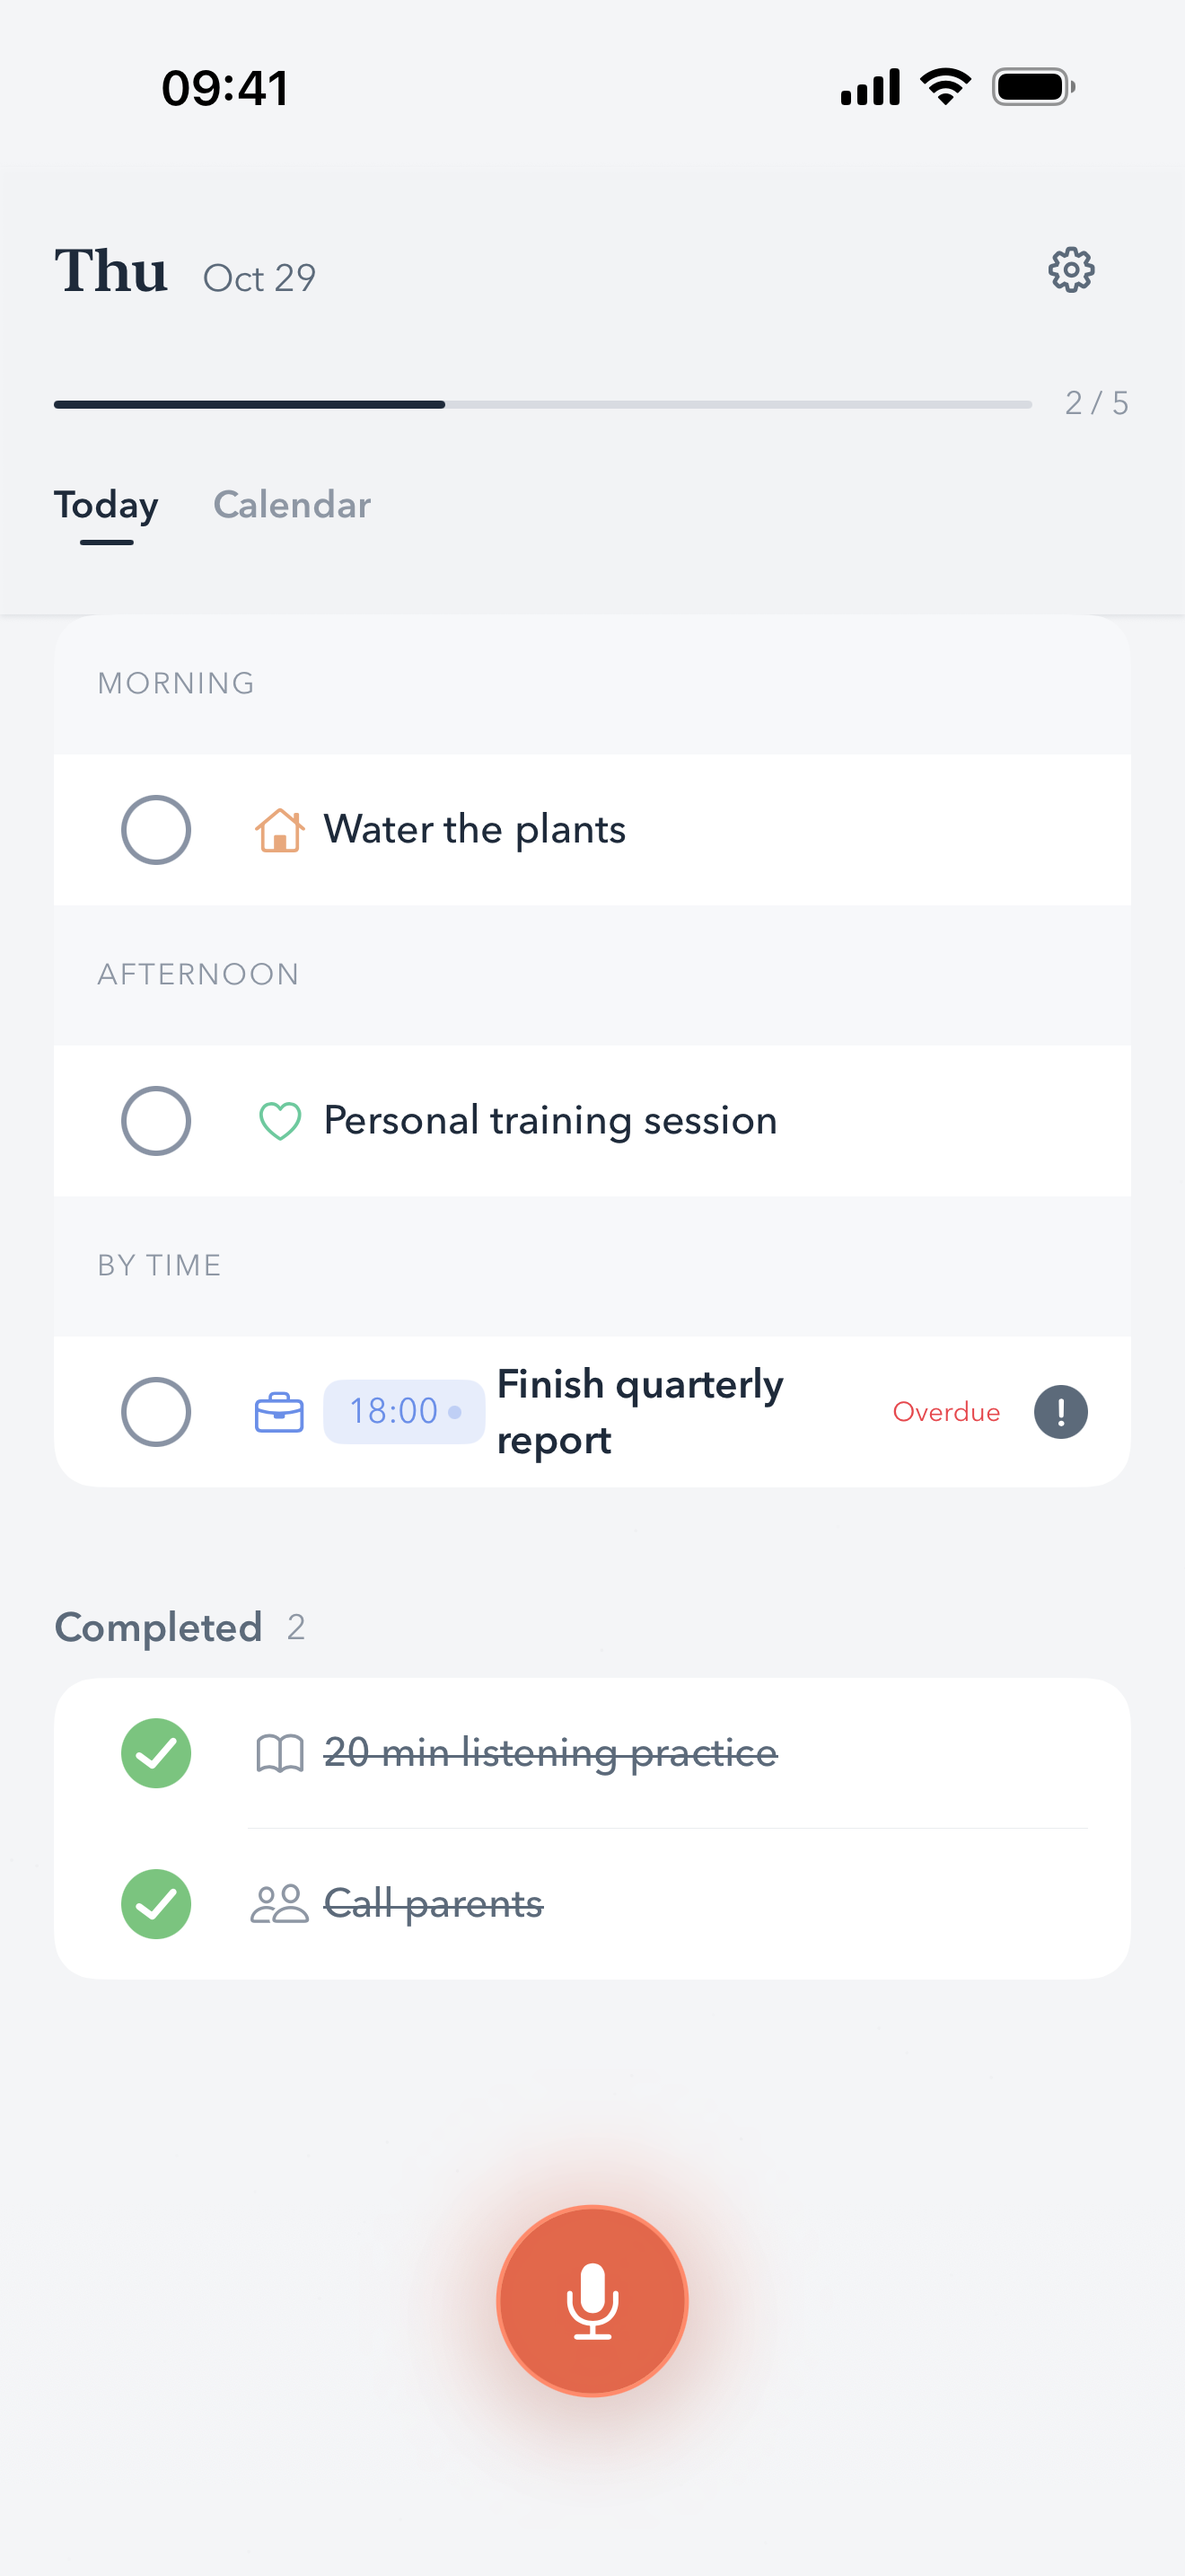
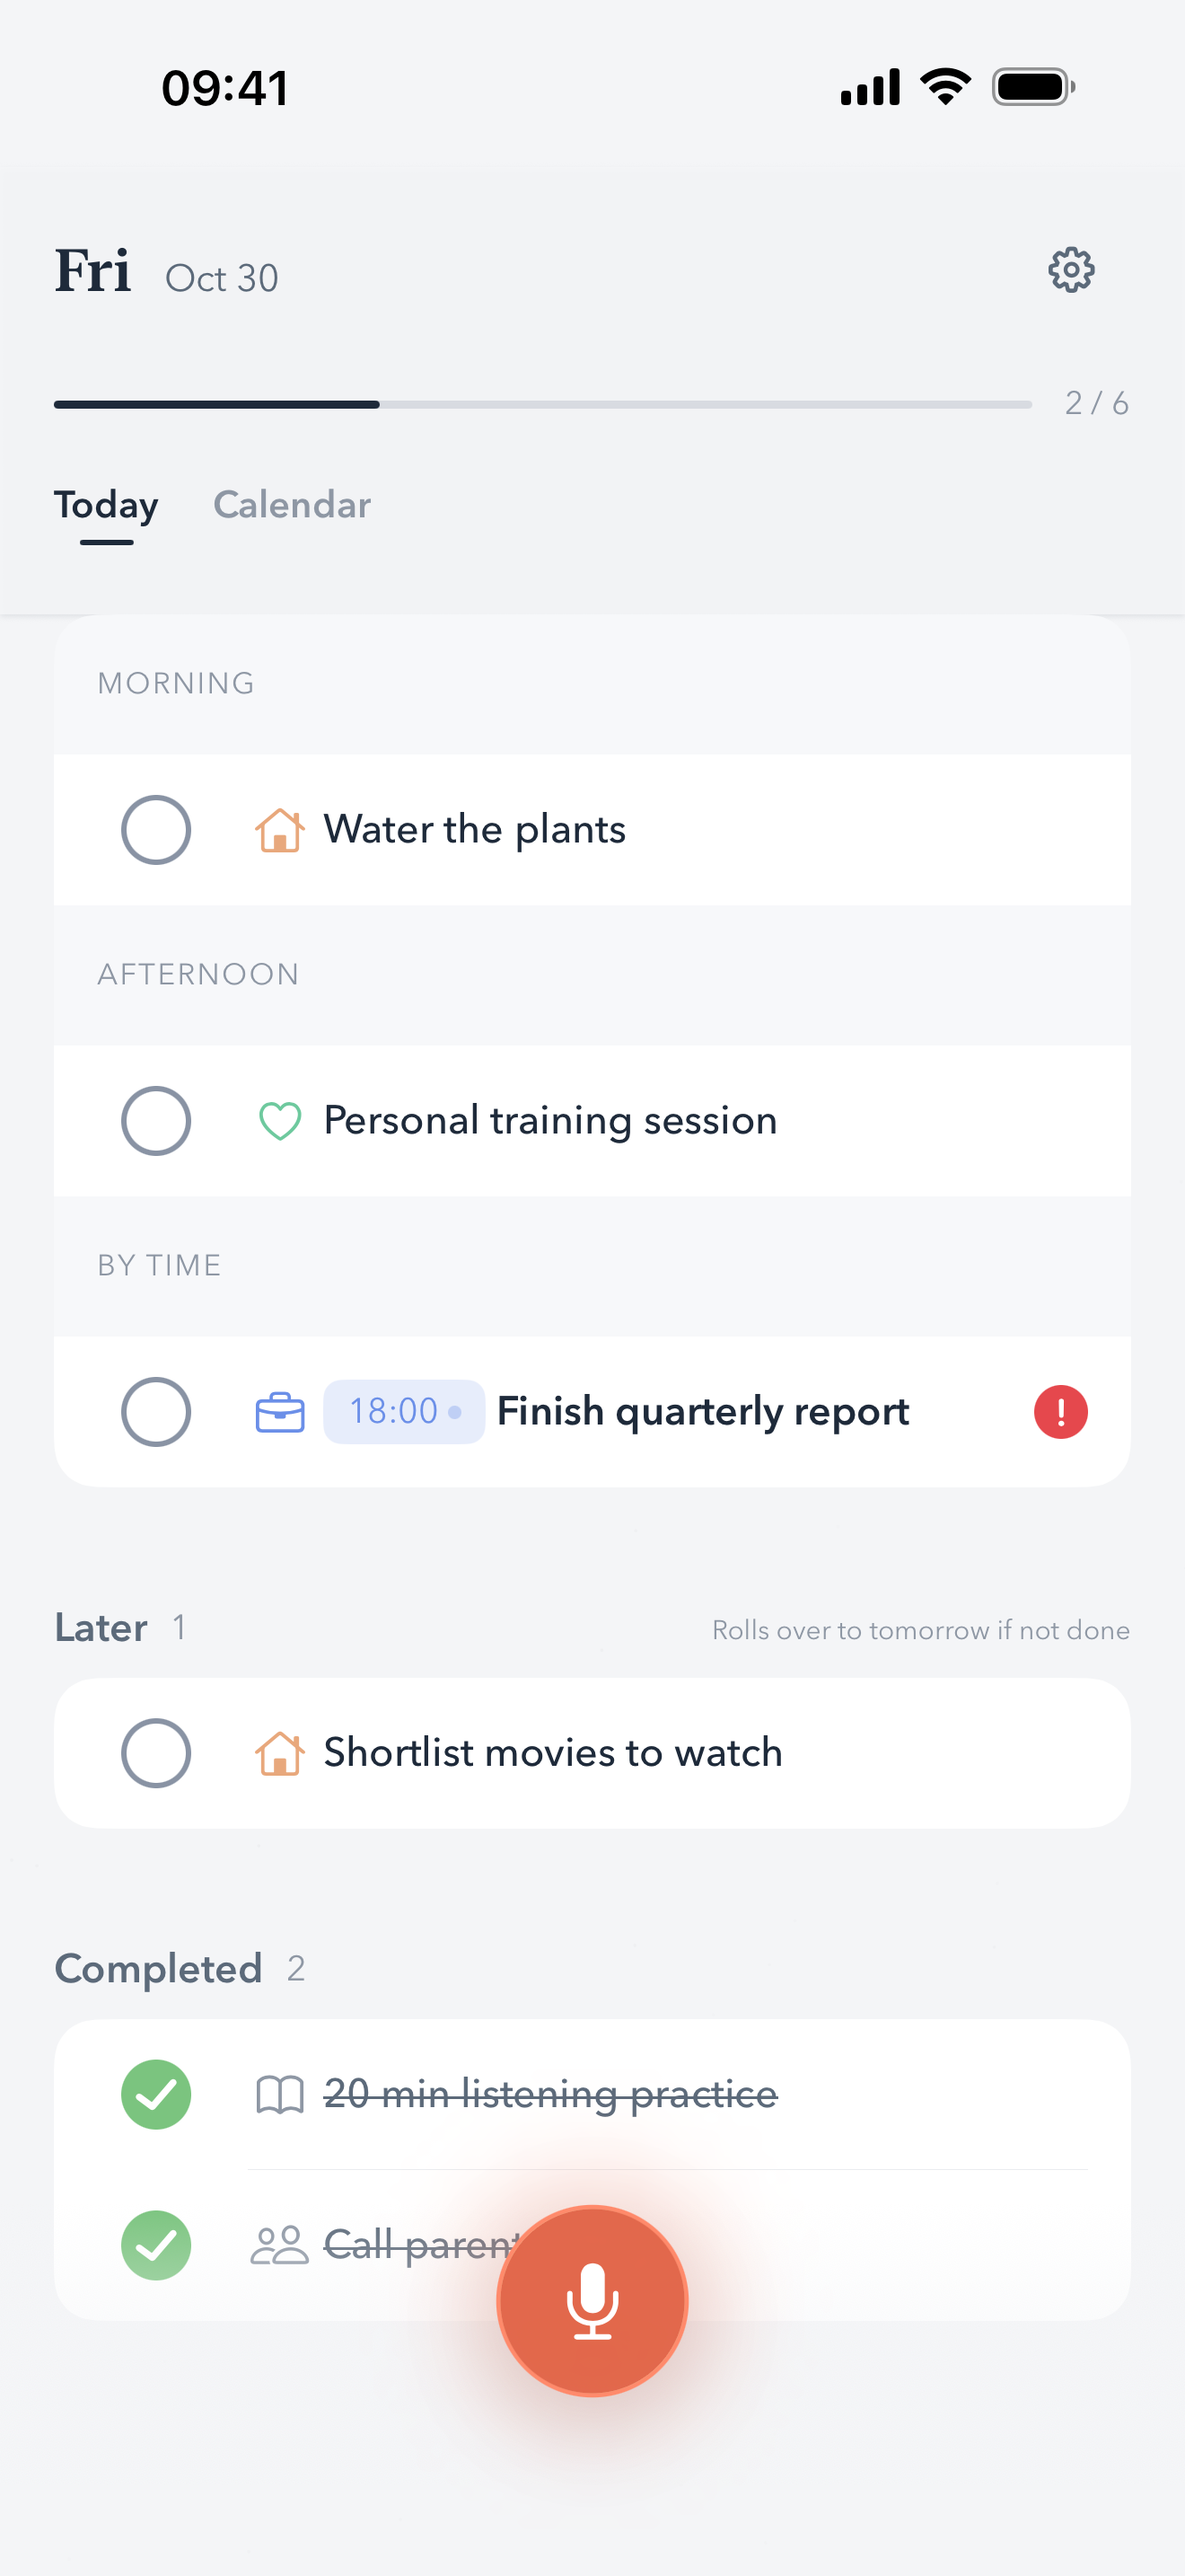
feat(screenshots): 种子补「稍后」条目,04 图补齐 Today 第四形态
Why:
用户要求 04「今天」图体现 Later 分组(产品已有:无日期+零时间信号待办
落「稍后」组),而种子全是有日期条目,该分组在截图里从未出现。

What:
- ScreenshotUITests.swift:item() 的 due 改 Double?(nil 时省略 dueDate
  JSON 键,落「稍后」组);seedJSON 追加 1 条零时间信号待办(zh「列一下
  想看的电影」/ en "Shortlist movies to watch"),文案收进
  LanguagePass.laterTitle;seedJSON doc 重写补齐当前成分清单。
- screenshots/{zh,en}/ 12 张全量重产(merge main 28 提交后的 v6 UI:
  05-review 呈现拖动条+× 新样式;跨天运行日期自洽)。
- marketing/out/{zh,en}/ 14 张成品随 raw 重渲染(B 版衬线暖纸)。

Impact:
- 稍后条目同时注入月历今天格子(2026-10-13 拍板的真实行为),03 图
  今天格子多一条事件条。
- 运行时日志验证:zh/en 两轮 unscheduledTodos 均恰 1 条新增条目,
  既有分组零回归;统计条分母随成分清单变化(doc 已改机制表述防漂移)。
- 双 review 循环 2 轮收敛(Three Check 2 修复 + code-review-expert 1
  修复);SPM 370/371(唯一红灯为已知 CN 时区 DST 基线)。

diff --git a/VoiceTodoUITests/ScreenshotUITests.swift b/VoiceTodoUITests/ScreenshotUITests.swift
@@ -39,6 +39,9 @@ final class ScreenshotUITests: XCTestCase {
         /// 周期性种子标题(shot 03 月视图节奏感):每周二 / 每两周周三 / 每月 15 号。
         /// 标题刻意短(月历格子条宽有限)。
         let recurringTitles: (weekly: String, biweekly: String, monthly: String)
+        /// 「稍后」组种子标题(shot 04 Today 列表第四形态):刻意不含时间词
+        /// (带时间词的会落「待定日期」组,「稍后」语义 = 完全没排期)。
+        let laterTitle: String
     }
 
     private var languagePasses: [LanguagePass] {
@@ -53,7 +56,8 @@ final class ScreenshotUITests: XCTestCase {
                 ],
                 expectedExtractTitles: ["去银行办卡", "买菜", "给老妈打电话"],
                 demoStepTitle: "一句话，就整理好了",
-                recurringTitles: (weekly: "健身", biweekly: "主管一对一", monthly: "月度报表")
+                recurringTitles: (weekly: "健身", biweekly: "主管一对一", monthly: "月度报表"),
+                laterTitle: "列一下想看的电影"
             ),
             LanguagePass(
                 tag: "en", appleLocale: "en_US", suffix: "en",
@@ -66,7 +70,8 @@ final class ScreenshotUITests: XCTestCase {
                 ],
                 expectedExtractTitles: ["Go to the bank", "Buy groceries", "Call mom"],
                 demoStepTitle: "One sentence, neatly done",
-                recurringTitles: (weekly: "Gym", biweekly: "Manager 1:1", monthly: "Monthly report")
+                recurringTitles: (weekly: "Gym", biweekly: "Manager 1:1", monthly: "Monthly report"),
+                laterTitle: "Shortlist movies to watch"
             ),
         ]
     }
@@ -362,8 +367,10 @@ final class ScreenshotUITests: XCTestCase {
 
     // MARK: - 种子数据(手工 JSON,对齐 App 端 TodoItemData)
 
-    /// 构造截图种子:今日 5 条(3 开放 + 2 完成,统计条 2/5)+ 过去 30 天 ~27 条完成
-    /// (复盘月度 hero≈29、类别全覆盖)+ 未来 7 天每天 1 条(月视图即将到来圆点)。
+    /// 构造截图种子:今日 5 条(3 开放 + 2 完成)+ 过去 30 天 ~27 条完成
+    /// (复盘月度 hero≈29、类别全覆盖)+ 未来 7 天每天 1 条(月视图即将到来圆点)
+    /// + 周期性 3 条(月视图重复节奏)+ 「稍后」1 条(shot 04 第四形态;计入进度条
+    /// 口径 laterActiveCounts,见 HomeView.selectedDayStats——统计条分母随之 +1)。
     /// 日期全部由运行时 Date() 推算,任何一天跑都成立;UUID 固定序号,重跑 diff 稳定。
     private func seedJSON(for pass: LanguagePass) throws -> String {
         let calendar = Calendar.current
@@ -446,7 +453,7 @@ final class ScreenshotUITests: XCTestCase {
             timeBucket: String? = nil,
             priority: String = "normal",
             hasDueTime: Bool = false,
-            due: Double,
+            due: Double?,
             recurrence: String? = nil,
             isCompleted: Bool = false,
             completedAt: Double? = nil
@@ -455,9 +462,14 @@ final class ScreenshotUITests: XCTestCase {
             var fields: [String] = [
                 "\"id\":\"aaaa0000-0000-4000-8000-\(String(format: "%012d", index))\"",
                 "\"title\":\"\(title)\"",
-                "\"dueDate\":\(String(format: "%.3f", due))",
-                "\"hasDueTime\":\(hasDueTime)",
             ]
+            // dueDate 为 Optional 键:nil 时省略整个键(decodeIfPresent → nil),
+            // 条目落「稍后」组(HomeCalendarState.isLaterActiveTodo:无日期+无重复+
+            // 无时间信号 timeBucket/dueHint 皆空)。
+            if let due {
+                fields.append("\"dueDate\":\(String(format: "%.3f", due))")
+            }
+            fields.append("\"hasDueTime\":\(hasDueTime)")
             if let timeBucket { fields.append("\"timeBucket\":\"\(timeBucket)\"") }
             if let recurrence { fields.append("\"recurrenceRule\":\(recurrence)") }
             fields.append("\"priority\":\"\(priority)\"")
@@ -523,6 +535,12 @@ final class ScreenshotUITests: XCTestCase {
         objects.append(item(recurring.monthly, category: "work",
                             due: try lastMonthDay(monthlyDay, hour: 9),
                             recurrence: recurrenceJSON(frequency: "monthly", dayOfMonth: monthlyDay)))
+
+        // 「稍后」1 条(shot 04 Today 列表的第四种形态):无日期+无重复+零时间信号,
+        // 标题刻意不含时间词(真实语音"周末/下周"会带 dueHint 落「待定日期」组,
+        // 「稍后」组的语义就是完全没排期)。副产物:该条同时注入月历今天格子
+        // (9a14682 拍板的真实行为)。
+        objects.append(item(pass.laterTitle, category: "life", due: nil))
 
         return "[" + objects.joined(separator: ",") + "]"
     }
